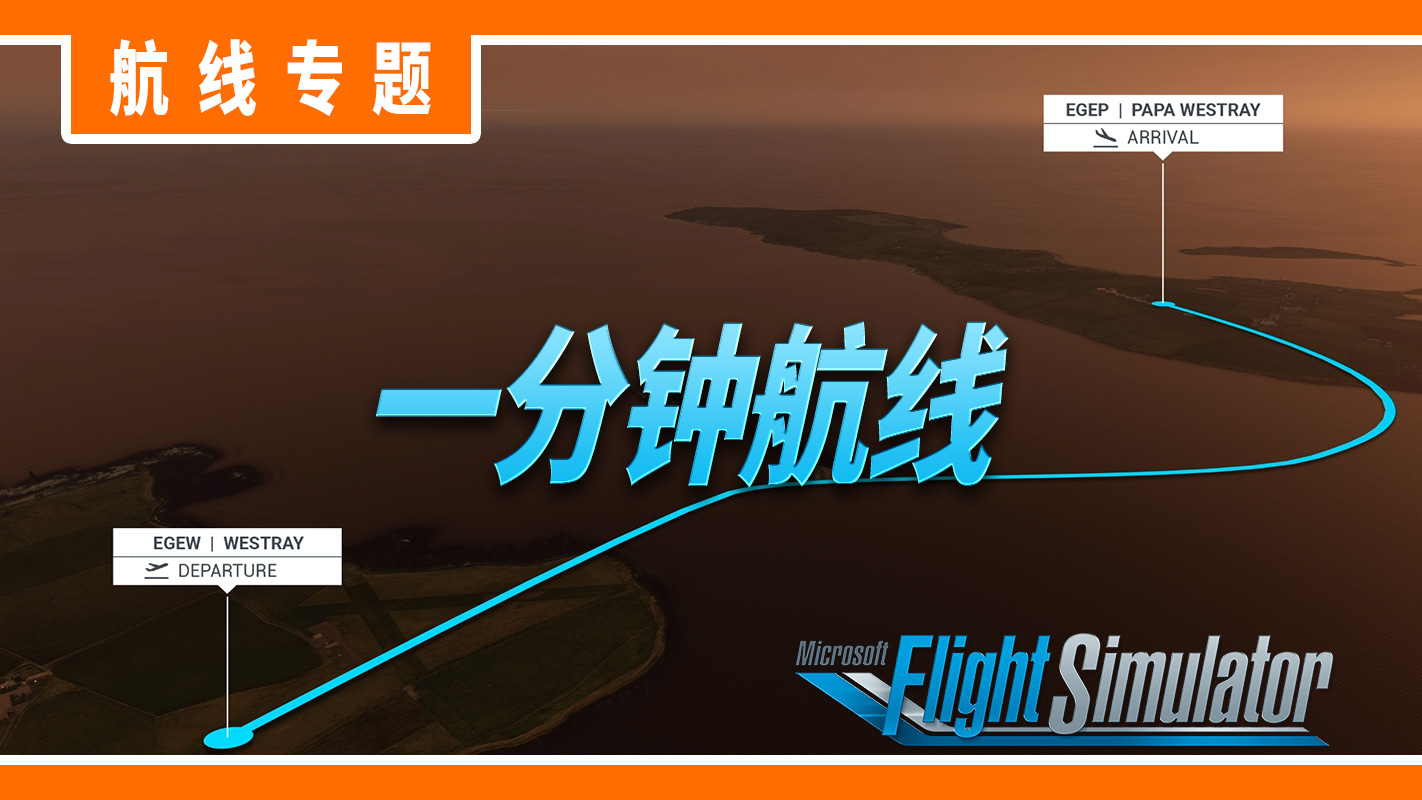
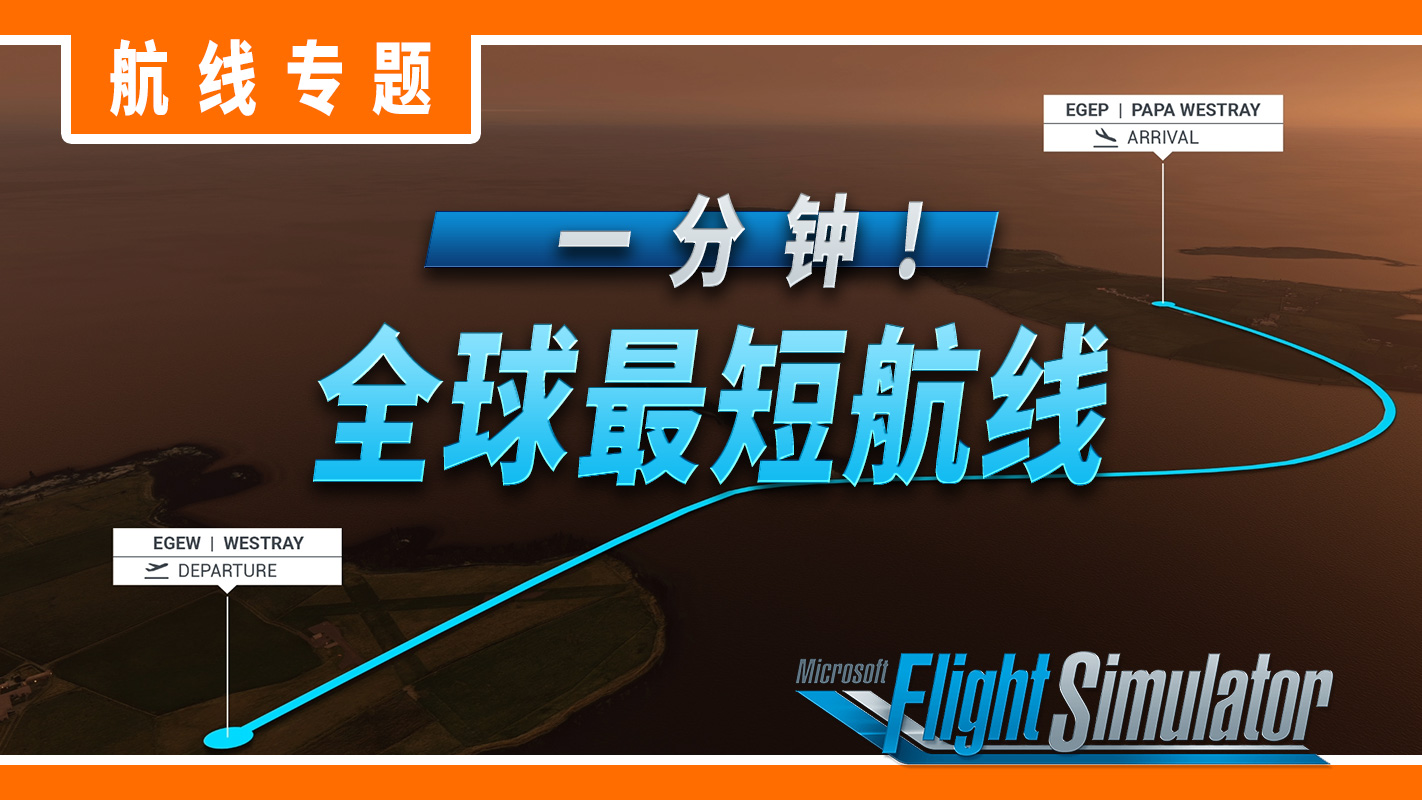
update thumbnail; new tag color

Changed region(s): [[0.2166, 0.4062, 0.8045, 0.625], [0.557, 0.7812, 0.9592, 0.9688], [0.2785, 0.25, 0.7117, 0.375]]

diff --git a/data/videos.ts b/data/videos.ts
@@ -3,10 +3,10 @@ import { VideoItem } from '@types';
 const videos: VideoItem[] = [
     {
         name: {
-            zh: '航线介绍: 一分钟航线 - 韦斯特雷',
+            zh: '航线介绍: 一分钟! 全球最短航线 - 韦斯特雷',
         },
         des: {
-            zh: '一条飞行时间90秒的常规航线？存在的意义又是什么？',
+            zh: '一条飞行时间不足两分钟的商业航线？存在的意义又是什么？',
         },
         thumbnailOriginal: './thumbnails/20210223.jpg',
         link: {

diff --git a/src/constants/less/color.less b/src/constants/less/color.less
@@ -18,6 +18,7 @@
 @color-tag-device: rgb(193, 184, 255);
 @color-tag-mod: rgb(229, 229, 102);
 @color-tag-tour: rgb(53, 171, 255);
+@color-tag-route: #d876e3;
 
 // Color Theme: Blue Grey
 @theme-bluegrey-50: hsl(204, 15%, 94%); // #edf0f1

diff --git a/src/components/tag/index.module.less b/src/components/tag/index.module.less
@@ -36,4 +36,5 @@
     .tag('device');
     .tag('mod');
     .tag('tour');
+    .tag('route');
 }
